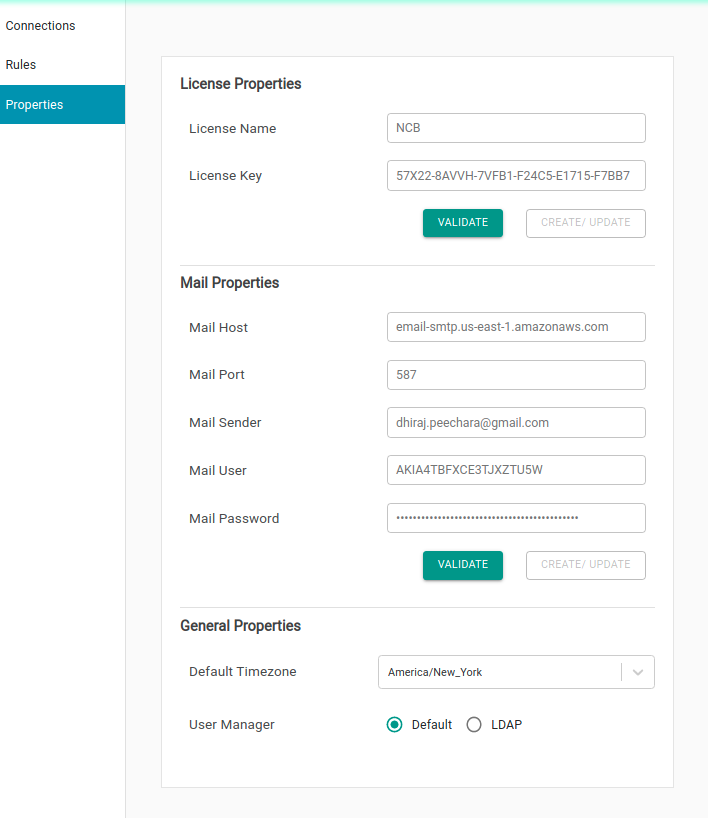
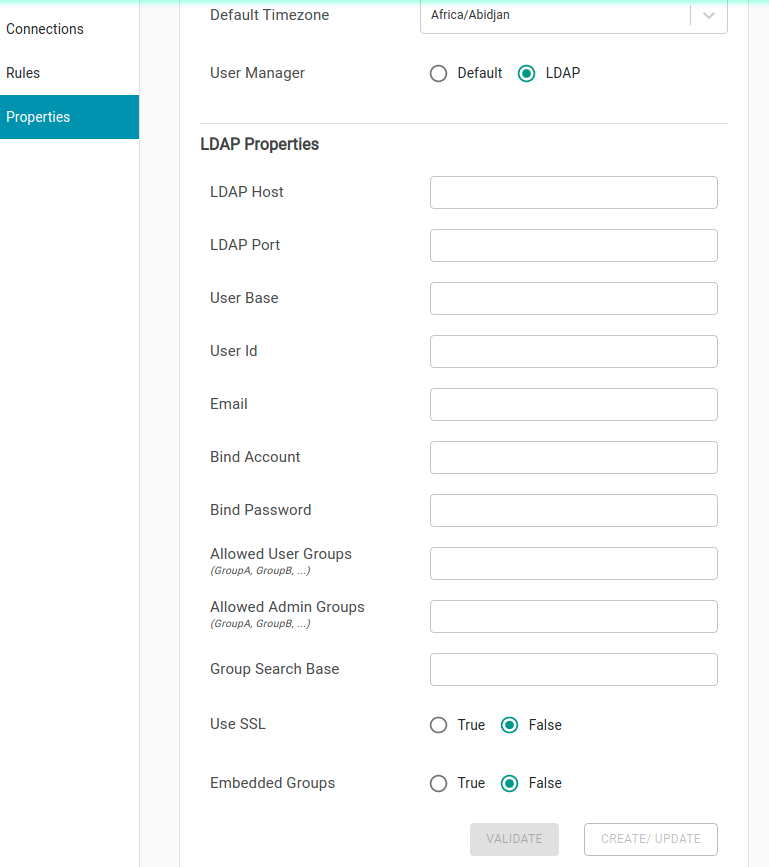
GitBook: [master] 49 pages and 3 assets modified

diff --git a/installation/untitled.md b/installation/untitled.md
@@ -49,13 +49,13 @@ Note : Host is the server url or the ip address
 
 ### **Login and enable LDAP settings**
 
-Login with default user dataops/dataops2021.  Go to Settings --&gt; Properties to enable LDAP integration.
+Login with default users sent in the email along with the License key. 
+
+Note : For LDAP integration  Go to Settings --&gt; Properties and fill up the LDAP server details. Restart the server using ./restart\_server.sh for the changes to take effect.
 
 
 
-![](../.gitbook/assets/image%20%2841%29.png)
+![](../.gitbook/assets/image%20%2842%29.png)
 
-
-
-
+![](../.gitbook/assets/image%20%2843%29.png)
 
